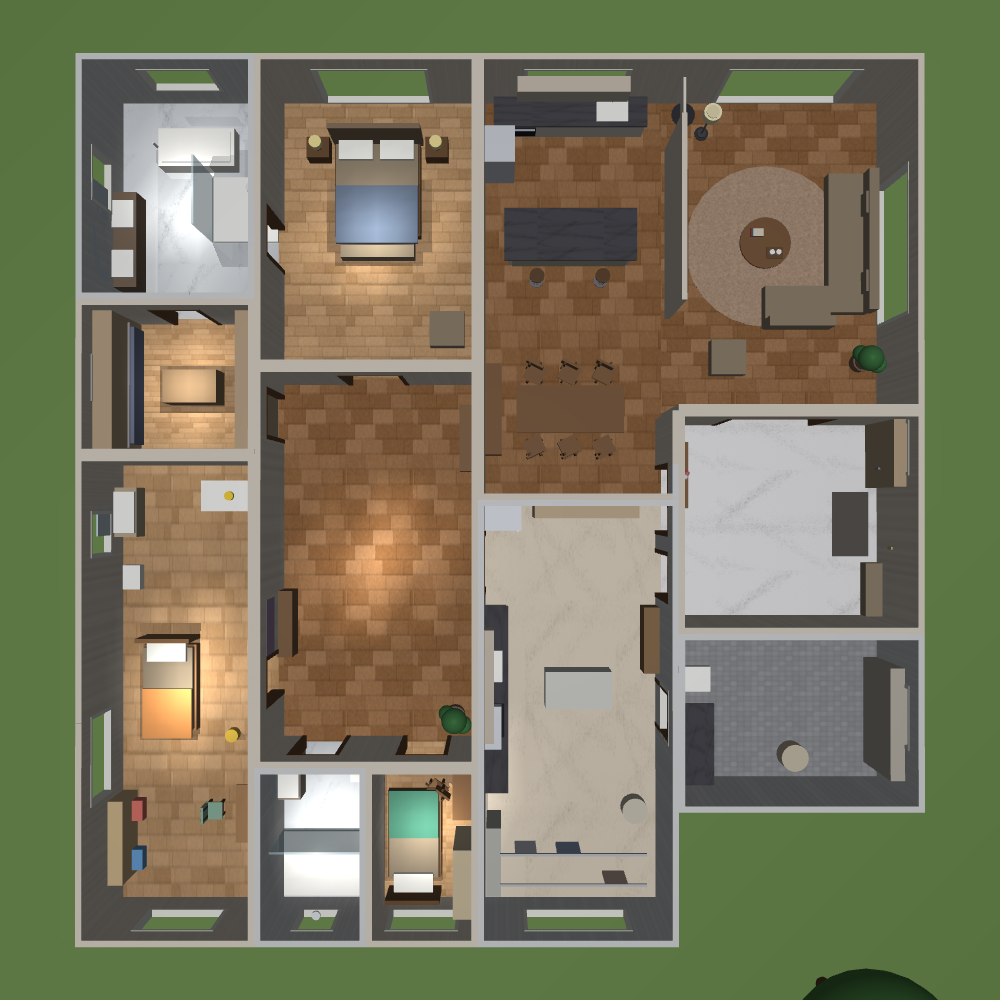
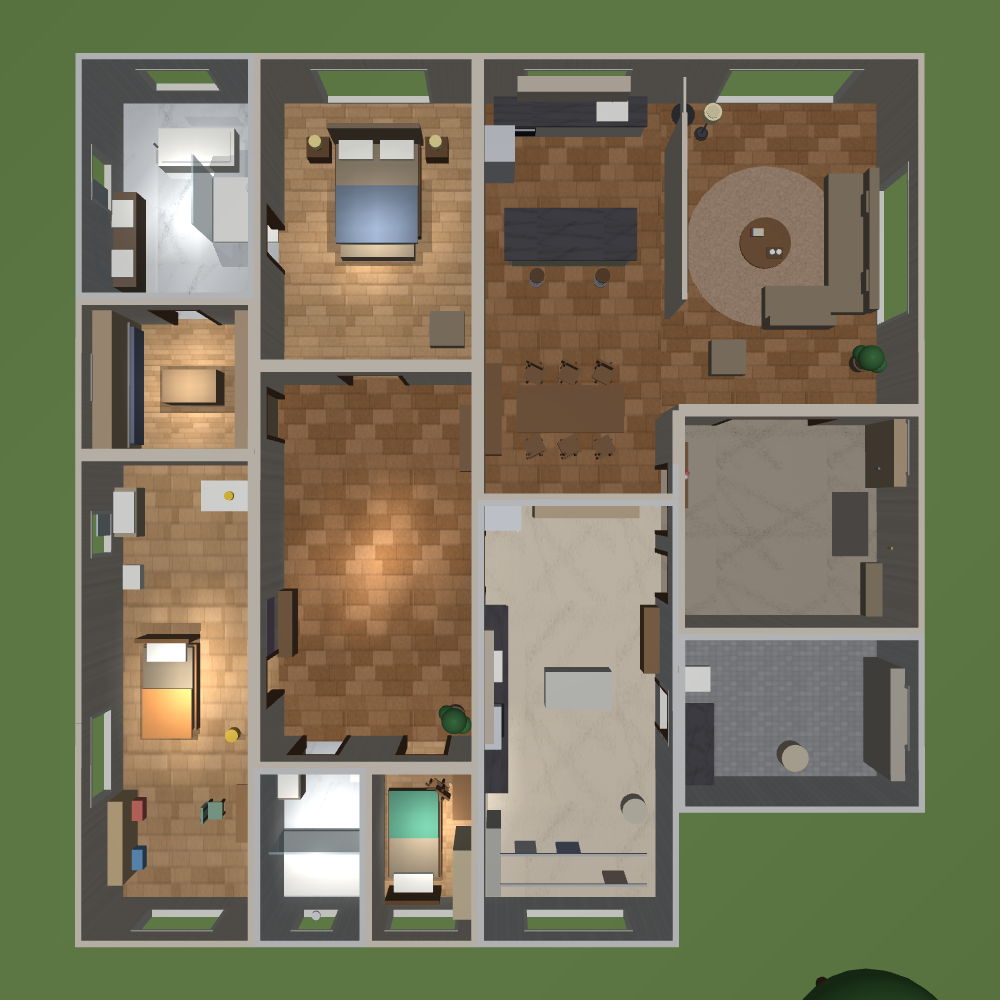
玄关地板换灰米色石材：近白 marble 在俯拍顶光下过曝发白
- make_textures.py 新增 marble_greige（base 172/162/148），make_house.py 注册材质
  （地面档光泽 0.20/0.35/0.04，台面档 0.45/0.70/0.15 铺整地会过曝）
- layout.py 玄关 floor_mat 换 mat_marble_greige；重跑生成器同步 house-*.xml 与 README 配图
- 后半批装饰纹理（art/fabric 等）因随机序列后移轻微变化，无功能影响

Changed region(s): [[0.651, 0.403, 0.868, 0.62], [0.868, 0.496, 0.899, 0.558]]

diff --git a/make_house.py b/make_house.py
@@ -233,7 +233,8 @@ def _assets() -> list[str]:
                'rgb2="0.88 0.92 0.96" width="512" height="1024"/>')
     # 贴图（file 路径相对本 XML 所在目录）
     for name in ("wood_floor", "wood_floor_light", "tile_white", "tile_grey",
-                 "marble", "marble_dark", "marble_warm", "marble_grey", "carpet", "fabric", "fabric_blue", "wall_paint",
+                 "marble", "marble_dark", "marble_warm", "marble_grey", "marble_greige",
+                 "carpet", "fabric", "fabric_blue", "wall_paint",
                  "city_skyline", "art0", "art1", "art2", "art3",
                  "oven_glass", "appliance_panel"):
         out.append(f'    <texture type="2d" name="tex_{name}" file="textures/{name}.png"/>')
@@ -247,6 +248,8 @@ def _assets() -> list[str]:
         ("mat_marble_dark", "tex_marble_dark", 2, 2, 0.45, 0.70, 0.15),
         ("mat_marble_warm", "tex_marble_warm", 2, 2, 0.45, 0.70, 0.15),
         ("mat_marble_grey", "tex_marble_grey", 2, 2, 0.45, 0.70, 0.15),
+        # 玄关地面：石材光泽压低（0.45/0.70/0.15 是台面档，铺整片地面在俯拍顶光下会过曝发白）
+        ("mat_marble_greige", "tex_marble_greige", 2, 2, 0.20, 0.35, 0.04),
         ("mat_carpet", "tex_carpet", 4, 4, 0.02, 0.05, 0.0),
         ("mat_fabric", "tex_fabric", 6, 6, 0.05, 0.10, 0.0),
         ("mat_fabric_blue", "tex_fabric_blue", 6, 6, 0.05, 0.10, 0.0),

diff --git a/layout.py b/layout.py
@@ -116,7 +116,8 @@ ROOMS: dict[str, dict] = {
     "entry": {                                                 # ④ 入户玄关
         "rect": (4.0, -3.0, 9.5, 2.0), "label": "玄关",         # 5.5 × 5.0 = 27.5㎡
         "wall_rgba": (0.85, 0.80, 0.73, 1.0), "floor_rgba": (0.72, 0.70, 0.67, 1.0),
-        "floor_mat": "mat_marble", "wall_mat": "mat_wall",
+        # 地面原用近白 marble，俯拍+顶光下整片过曝发白（2026-07-28 Jeff 提出）→ 换深一档的灰米石材
+        "floor_mat": "mat_marble_greige", "wall_mat": "mat_wall",
     },
     "laundry": {                                               # ⑧ 洗衣
         "rect": (4.0, -7.0, 9.5, -3.0), "label": "洗衣房",      # 5.5 × 4.0 = 22㎡

diff --git a/make_textures.py b/make_textures.py
@@ -229,6 +229,9 @@ def main() -> None:
     # 各房间本来就不会铺一模一样的石头）
     _save("marble_warm.png", marble(base=(226, 214, 196)))   # 暖米色 → 厨房
     _save("marble_grey.png", marble(base=(196, 200, 205)))   # 冷灰色 → 卫生间
+    # 玄关地面专用：近白的 marble 在第三人称俯拍 + 顶光下整片过曝发白（2026-07-28 Jeff 提出），
+    # 换成明显更深的灰米色石材；亮度压到中间调，俯拍不再过曝。
+    _save("marble_greige.png", marble(base=(172, 162, 148)))
     _save("carpet.png", carpet())
     _save("fabric.png", fabric())
     _save("fabric_blue.png", fabric(base=(104, 118, 140)))
